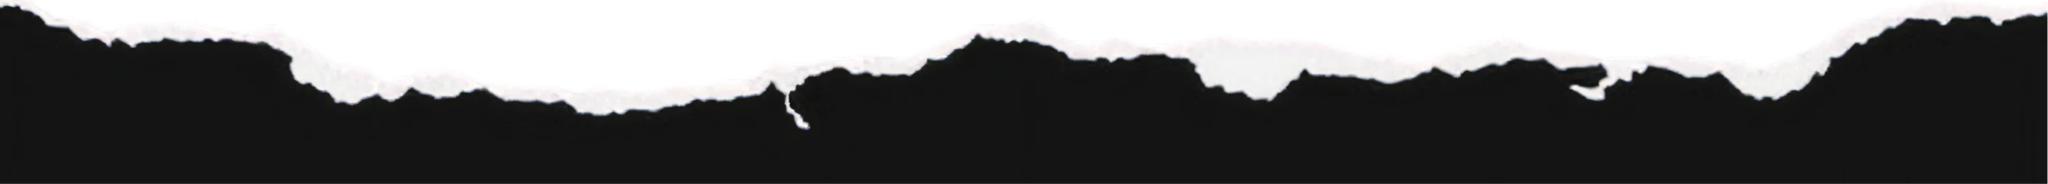
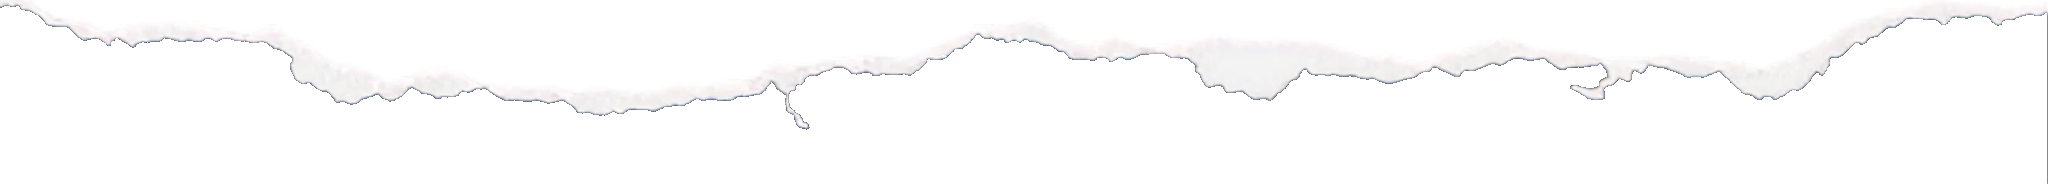
Clean up torn-paper transition

diff --git a/motion.css b/motion.css
@@ -968,7 +968,7 @@
   height: 130px;
   background: transparent url("images/torn-paper-edge.png") center / 100% 100% no-repeat;
   filter: none;
-  mix-blend-mode: screen;
+  mix-blend-mode: normal;
   -webkit-mask-image: none;
           mask-image: none;
   -webkit-mask-size: auto;
